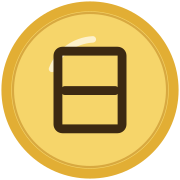
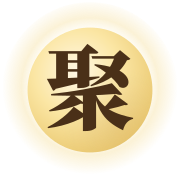
Redraw the mark as a mid-autumn moon with 聚.
Soften the disc into moonlight and set the character 聚 on its face instead of a coin-like 日.

diff --git a/src/components/brand-mark.tsx b/src/components/brand-mark.tsx
@@ -1,41 +1,39 @@
+import { useId } from "react";
 import { cn } from "@/lib/utils";
 
-/** 金黄日轮。漆面般的两层金色，中间是一笔写成的「日」。 */
+/** 中秋满月，月面上是「聚」。柔光圆面，没有金属描边。 */
 export function BrandMark({ className }: { className?: string }) {
+  const raw = useId().replace(/:/g, "");
+  const halo = `${raw}-halo`;
+  const moon = `${raw}-moon`;
+  const shade = `${raw}-shade`;
   return (
     <svg
       viewBox="0 0 64 64"
-      fill="none"
       className={cn("shrink-0", className)}
       aria-hidden
       focusable="false"
     >
-      <circle cx="32" cy="32" r="31.5" fill="#E2AE34" />
-      <circle cx="32" cy="32" r="28" fill="#F6D56A" />
-      <circle cx="32" cy="32" r="27.4" stroke="#C8922A" strokeWidth="0.8" opacity="0.65" />
-      <path
-        d="M18.5 24.5A16.5 16.5 0 0 1 33 14"
-        stroke="#FFF8E4"
-        strokeWidth="2.3"
-        strokeLinecap="round"
-        opacity="0.8"
-      />
-      <rect
-        x="20.6"
-        y="18.2"
-        width="22.8"
-        height="27.6"
-        rx="1.6"
-        stroke="#3C2912"
-        strokeWidth="3.15"
-        strokeLinejoin="round"
-      />
-      <path
-        d="M23.1 32.2h17.8"
-        stroke="#3C2912"
-        strokeWidth="3.15"
-        strokeLinecap="round"
-      />
+      <defs>
+        <radialGradient id={halo} cx="50%" cy="48%" r="50%">
+          <stop offset="62%" stopColor="#F6E3A4" stopOpacity="0" />
+          <stop offset="78%" stopColor="#F4D98A" stopOpacity="0.35" />
+          <stop offset="100%" stopColor="#F4D98A" stopOpacity="0" />
+        </radialGradient>
+        <radialGradient id={moon} cx="40%" cy="36%" r="72%">
+          <stop offset="0%" stopColor="#FFF8E6" />
+          <stop offset="48%" stopColor="#FBE6A4" />
+          <stop offset="100%" stopColor="#E8C56A" />
+        </radialGradient>
+        <radialGradient id={shade} cx="72%" cy="76%" r="60%">
+          <stop offset="0%" stopColor="#C9A05A" stopOpacity="0.2" />
+          <stop offset="75%" stopColor="#C9A05A" stopOpacity="0" />
+        </radialGradient>
+      </defs>
+      <circle cx="32" cy="32" r="31.2" fill={`url(#${halo})`} />
+      <circle cx="32" cy="32" r="22.2" fill={`url(#${moon})`} />
+      <circle cx="32" cy="32" r="22.2" fill={`url(#${shade})`} />
+      <path fill="#4A3018" transform="translate(15.854 43.565) scale(0.032292 -0.032292)" d="M567 -56Q567 -62 536.0 -78.0Q505 -94 449 -94H422V337L567 346ZM856 310Q847 303 829.0 304.0Q811 305 786 315Q716 309 629.5 304.5Q543 300 448.0 297.5Q353 295 257.5 295.0Q162 295 73 298L71 314Q155 323 248.0 336.0Q341 349 432.5 365.5Q524 382 604.0 399.5Q684 417 741 433ZM467 71Q463 64 454.5 61.0Q446 58 429 62Q383 34 320.0 9.0Q257 -16 185.5 -34.5Q114 -53 39 -62L32 -51Q90 -23 146.0 15.5Q202 54 247.5 95.5Q293 137 321 174ZM436 215Q432 208 423.5 206.0Q415 204 398 208Q356 188 300.0 170.5Q244 153 181.0 140.5Q118 128 55 122L48 133Q97 156 146.0 187.0Q195 218 237.0 251.5Q279 285 305 313ZM558 326Q582 261 625.0 214.5Q668 168 724.0 136.5Q780 105 844.0 85.0Q908 65 975 52L974 40Q890 19 864 -85Q782 -47 719.0 4.0Q656 55 613.5 131.0Q571 207 547 320ZM918 203Q914 196 905.5 192.5Q897 189 880 193Q848 182 808.5 171.5Q769 161 726.5 152.0Q684 143 644 136L635 146Q660 170 687.0 200.0Q714 230 737.0 259.5Q760 289 773 310ZM25 481Q77 482 166.0 485.5Q255 489 367.5 495.0Q480 501 604 508V494Q528 469 412.0 440.0Q296 411 122 371Q118 362 110.0 356.5Q102 351 94 349ZM257 786V438L127 422V786ZM493 406Q492 402 463.5 390.5Q435 379 384 379H360V786H493ZM471 866Q471 866 491.5 851.0Q512 836 540.5 814.5Q569 793 592 774Q588 758 564 758H50L42 786H404ZM402 588V560H180V588ZM402 686V658H180V686ZM552 643Q674 631 751.0 603.5Q828 576 868.0 542.0Q908 508 918.5 475.0Q929 442 918.0 417.5Q907 393 881.5 384.5Q856 376 825 392Q807 423 768.0 464.5Q729 506 673.0 550.0Q617 594 548 631ZM762 731 830 797 945 702Q937 689 907 686Q856 585 755.0 511.0Q654 437 511 399L505 411Q606 465 675.5 549.5Q745 634 773 731ZM815 731V703H525L516 731Z" />
     </svg>
   );
 }

diff --git a/src/components/site-chrome.tsx b/src/components/site-chrome.tsx
@@ -11,7 +11,7 @@ export function SiteHeader() {
       <div className="mx-auto flex h-14 max-w-6xl items-center justify-between gap-3 px-4 sm:px-6">
         <div className="flex min-w-0 items-center gap-3">
           <Link href="/" className="flex shrink-0 items-center gap-2 font-heading text-lg font-black tracking-tight sm:text-xl">
-            <BrandMark className="size-7 sm:size-8" />
+            <BrandMark className="size-8 sm:size-9" />
             每日聚合新闻
           </Link>
           <DateSwitcher className="hidden md:flex" />
@@ -31,7 +31,7 @@ export function SiteFooter() {
       <div className="mx-auto grid max-w-6xl gap-6 px-4 py-10 text-sm text-muted-foreground sm:grid-cols-2 sm:px-6">
         <div className="space-y-2">
           <p className="flex items-center gap-2 font-heading text-base font-bold text-foreground">
-            <BrandMark className="size-6" />
+            <BrandMark className="size-7" />
             每日聚合新闻
           </p>
           <p>
